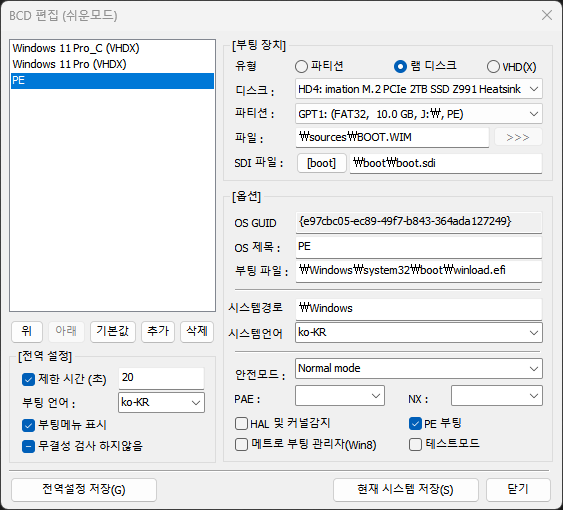
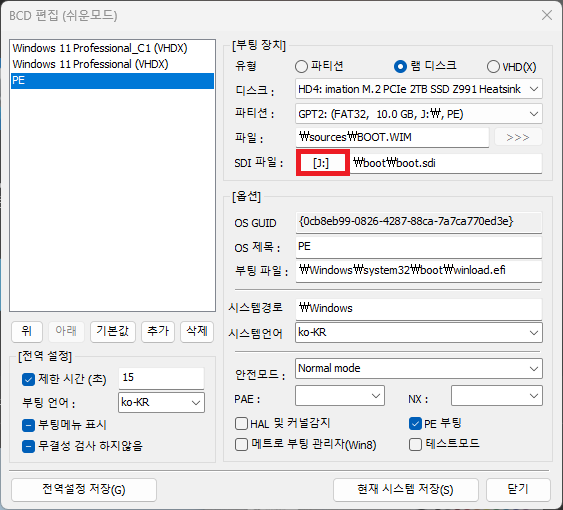
update ssd에 pe 설치.md

diff --git a/src/content/blog/ssd에 pe 설치.md b/src/content/blog/ssd에 pe 설치.md
@@ -61,6 +61,6 @@ ASROCK 보드일 경우 F11 키입니다.
 ![bootice](../../assets/blog-images/2024/ssd-pe-uefi-boot_5.png)
 
 PE 항목을 추가할 때 `새 WIM 부팅항목` 선택합니다.  
-디스크, 파티션을 적절하게 선택합니다.  
+`디스크`, `파티션`을 적절하게 선택하고, `SDI 파일`을 클릭해서 위치를 설정합니다.  
 오타를 주의합니다.  
-`현재 시스템 저장` ,`전역설정 저장` 후 재부팅 합니다.
+`현재 시스템 저장`, `전역설정 저장` 후 재부팅 합니다.
